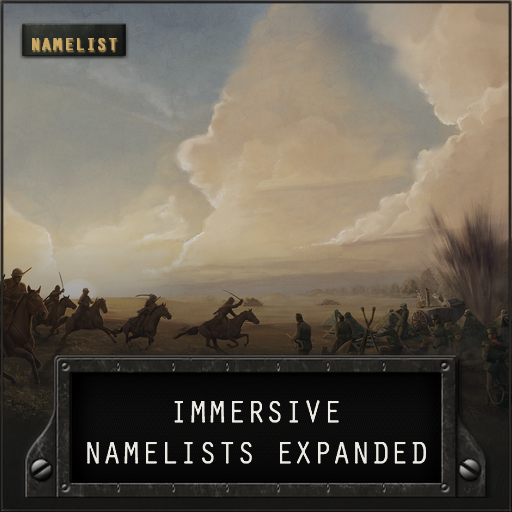
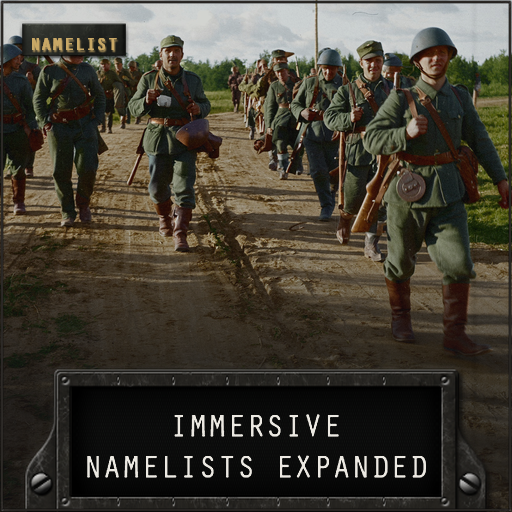
feat(thumbnail): a colourised Finnish infantry photograph as the picture
The thumbnail background is the colourised photograph of Finnish infantry
on a march (assets/thumbnail.json, artKey fin-infantry-march) and the
title plate touches the bottom edge. The wiki Home page gains a Picture
credits table, and the hero image of the Workshop description is the new
one drawn from the thumbnail.

Checks: .\build.ps1 -ValidateOnly succeeded; .\build.ps1 -Test, 499 Passed,
0 Failed, 1 Skipped.

diff --git a/wiki/Home.md b/wiki/Home.md
@@ -51,3 +51,13 @@ Key features:
 - **Gameplay scalability** — 20–50+ ordered entries per group with well-formatted fallback names
 - **Coverage breadth** — from frontline divisions to coastal fortresses, territorial defence leagues, elite guards, partisans, and late-war emergency formations
 
+## Picture credits
+
+The thumbnail and the gallery images use period photographs, colourised, then cropped and resized. Each picture links to its source record.
+
+| Picture | Shows | Used for | Credit and licence |
+|---|---|---|---|
+| [Jalkaväki marssii rajalle.](https://www.finna.fi/Record/sa-kuva.sa-kuva%2F61251) | Finnish infantry marching on a sandy road in summer | thumbnail, Finland page | SA-kuva-arkisto (R. Meinander), CC BY 4.0 |
+| [Ratsuväki matkalla päin itää.](https://www.finna.fi/Record/sa-kuva.sa-kuva%2F74141) | Finnish cavalry riding in a column on a road | gallery overview and the pages without a picture of their own | SA-kuva-arkisto (Eino S. Rahikainen), CC BY 4.0 |
+| [SC 192037 - Tanks move up to support the infantry, as advance after...](https://commons.wikimedia.org/wiki/File:SC_192037_-_Tanks_move_up_to_support_the_infantry,_as_advance_after_advance_is_made_on_the_fighting_front_west_of_St._Lo,_France._24_July,_1944.jpg) | US infantry and a tank on a muddy road, a ruined wall at the side | gallery, USA page | Signal Corps Archive, public domain |
+| [Troops of 51st Highland Division march over a drawbridge into Fort...](https://commons.wikimedia.org/wiki/File:Troops_of_51st_Highland_Division_march_over_a_drawbridge_into_Fort_de_Sainghain_on_the_Maginot_Line,_3_November_1939._O227.jpg) | British infantry crossing a drawbridge into a grass-covered fort | gallery, Britain page | War Office official photographer (Lt G. Keating), public domain |

diff --git a/WORKSHOP_DESCRIPTION_GUIDELINES.md b/WORKSHOP_DESCRIPTION_GUIDELINES.md
@@ -83,7 +83,7 @@ This document serves as an instruction and reference guide for maintaining and u
 
 ```bbcode
 <!-- region:image:hero -->
-[img]https://i.imgur.com/DMARg5N.png[/img]
+[img]https://i.imgur.com/eEEtBnb.png[/img]
 <!-- /region -->
 More division namelists!
 
